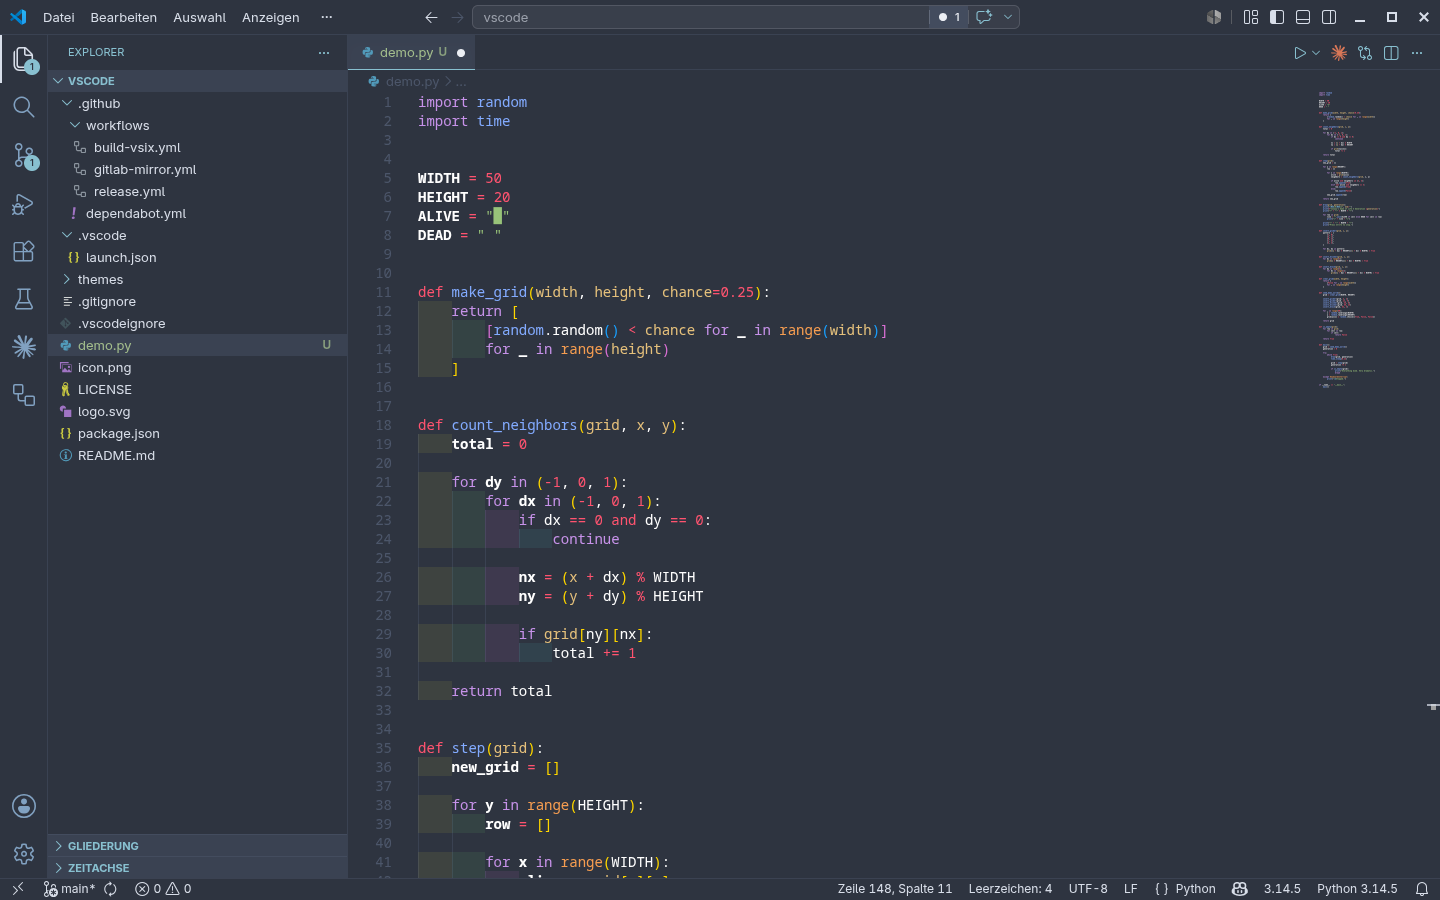
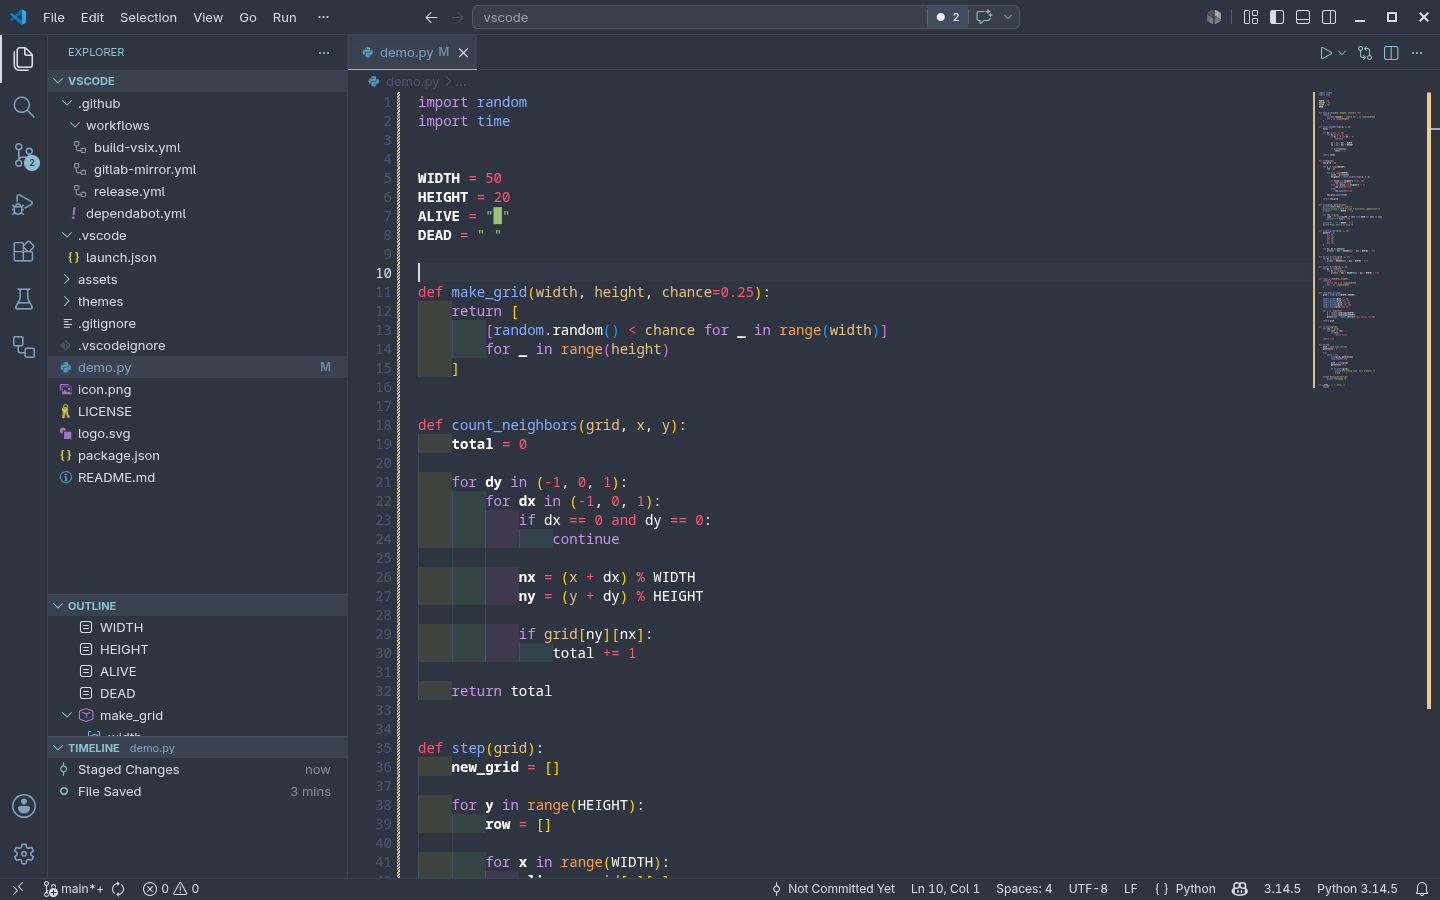
demo

diff --git a/demo.py b/demo.py
@@ -1,0 +1,148 @@
+import random
+import time
+
+
+WIDTH = 50
+HEIGHT = 20
+ALIVE = "█"
+DEAD = " "
+
+
+def make_grid(width, height, chance=0.25):
+    return [
+        [random.random() < chance for _ in range(width)]
+        for _ in range(height)
+    ]
+
+
+def count_neighbors(grid, x, y):
+    total = 0
+
+    for dy in (-1, 0, 1):
+        for dx in (-1, 0, 1):
+            if dx == 0 and dy == 0:
+                continue
+
+            nx = (x + dx) % WIDTH
+            ny = (y + dy) % HEIGHT
+
+            if grid[ny][nx]:
+                total += 1
+
+    return total
+
+
+def step(grid):
+    new_grid = []
+
+    for y in range(HEIGHT):
+        row = []
+
+        for x in range(WIDTH):
+            alive = grid[y][x]
+            neighbors = count_neighbors(grid, x, y)
+
+            if alive and neighbors in (2, 3):
+                row.append(True)
+            elif not alive and neighbors == 3:
+                row.append(True)
+            else:
+                row.append(False)
+
+        new_grid.append(row)
+
+    return new_grid
+
+
+def draw(grid, generation):
+    print("\033[H\033[J", end="")
+    print(f"Conway's Game of Life — Generation {generation}")
+    print("+" + "-" * WIDTH + "+")
+
+    for row in grid:
+        line = "".join(ALIVE if cell else DEAD for cell in row)
+        print("|" + line + "|")
+
+    print("+" + "-" * WIDTH + "+")
+    print("Press Ctrl+C to stop.")
+
+
+def insert_glider(grid, x, y):
+    pattern = [
+        (1, 0),
+        (2, 1),
+        (0, 2),
+        (1, 2),
+        (2, 2),
+    ]
+
+    for dx, dy in pattern:
+        grid[(y + dy) % HEIGHT][(x + dx) % WIDTH] = True
+
+
+def insert_blinker(grid, x, y):
+    for dx in range(3):
+        grid[y % HEIGHT][(x + dx) % WIDTH] = True
+
+
+def insert_block(grid, x, y):
+    for dy in range(2):
+        for dx in range(2):
+            grid[(y + dy) % HEIGHT][(x + dx) % WIDTH] = True
+
+
+def clear_grid(width, height):
+    return [
+        [False for _ in range(width)]
+        for _ in range(height)
+    ]
+
+
+def seed_demo_world():
+    grid = clear_grid(WIDTH, HEIGHT)
+
+    insert_glider(grid, 2, 2)
+    insert_glider(grid, 12, 4)
+    insert_blinker(grid, 25, 8)
+    insert_blinker(grid, 35, 15)
+    insert_block(grid, 42, 3)
+
+    for _ in range(80):
+        x = random.randrange(WIDTH)
+        y = random.randrange(HEIGHT)
+        grid[y][x] = random.choice([True, False, False])
+
+    return grid
+
+
+def is_empty(grid):
+    for row in grid:
+        for cell in row:
+            if cell:
+                return False
+
+    return True
+
+
+def main():
+    grid = seed_demo_world()
+    generation = 0
+
+    try:
+        while True:
+            draw(grid, generation)
+            time.sleep(0.12)
+
+            grid = step(grid)
+            generation += 1
+
+            if is_empty(grid):
+                print("Everything died. Very dramatic.")
+                break
+
+    except KeyboardInterrupt:
+        print("\nStopped.")
+
+
+if __name__ == "__main__":
+    main()